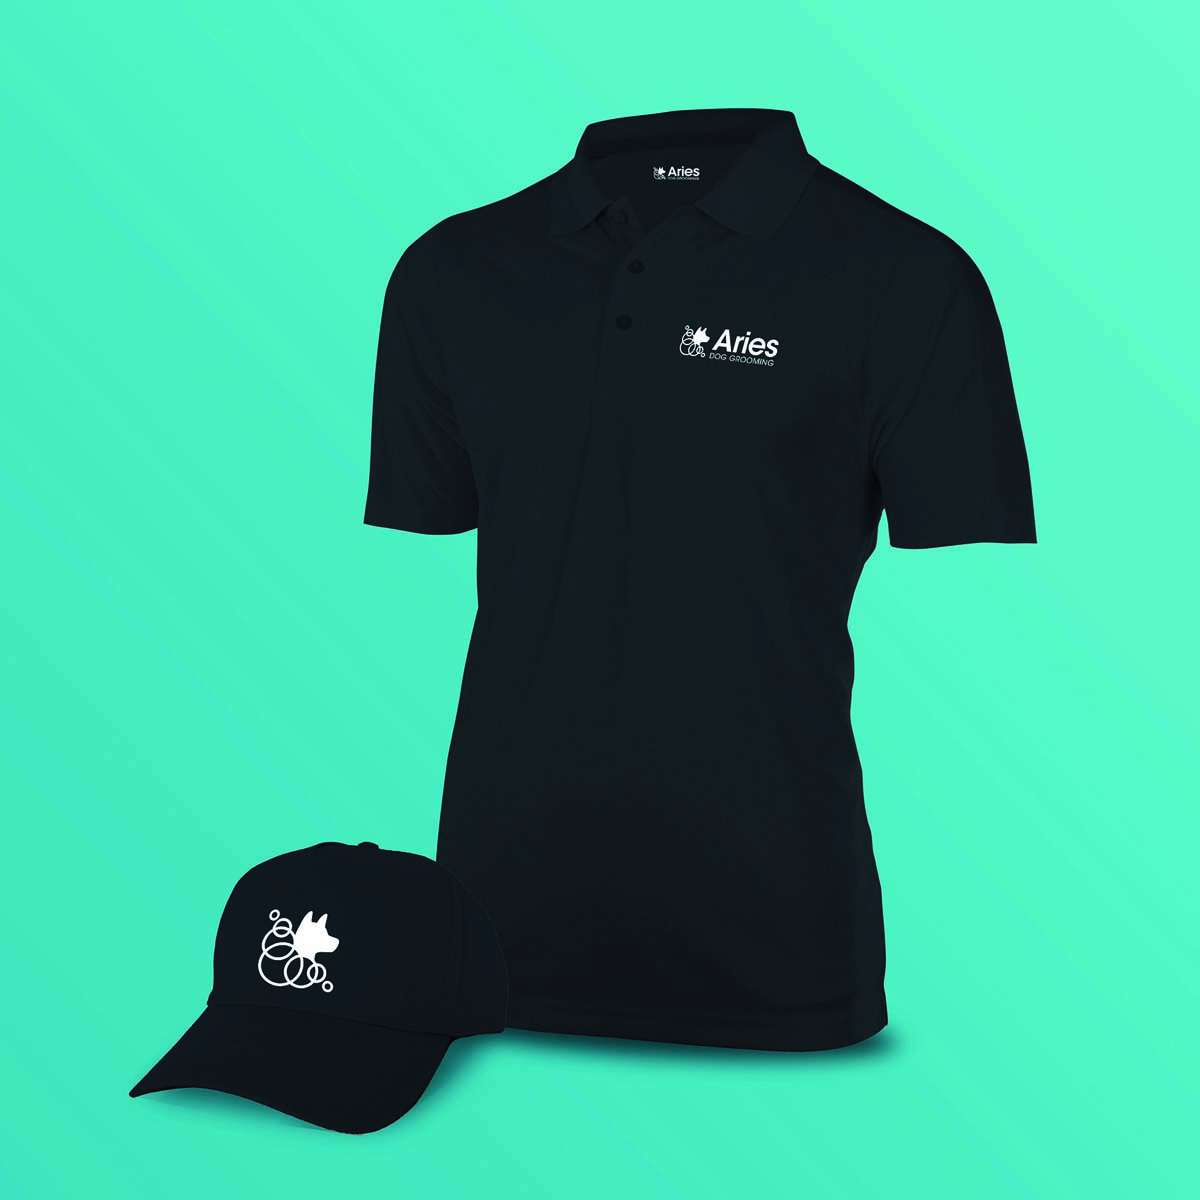
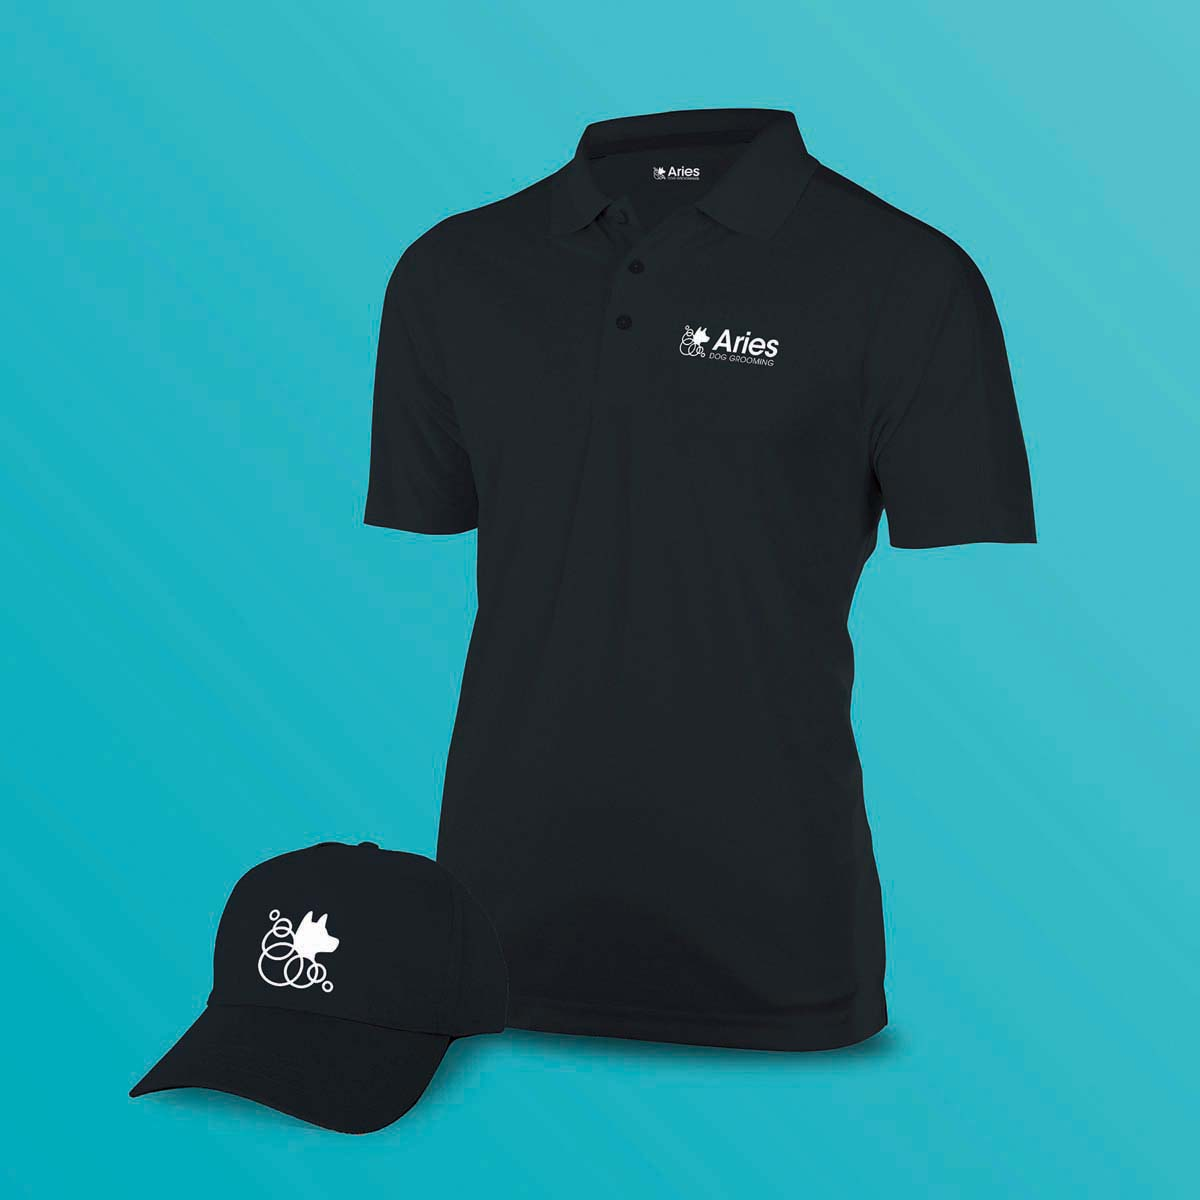
treehouse

diff --git a/case-study-treehouse2.html b/case-study-treehouse2.html
@@ -1,0 +1,45 @@
+---
+layout: default
+title: Case Study • Isometric Treehouse
+---
+
+<meta name="description" content="A logo and brand design created for Aries Dog Grooming.">
+
+<ul class="skip-links">
+    <li><a href="#main">Jump to main content</a></li>
+    <li><a href="#nav">Jump to navigation</a></li>
+  </ul>
+
+  <main role="main" id="main" itemref="data-author" itemscope itemtype="https://schema.org/WebSite" class="case-study">
+    <div class="banner push-2">
+      <img src="{{site.baseurl}}/images/aries-banner.jpg" alt="">
+    </div>
+    <div class="text-card grid gutter push">
+      <h1 class="unit xs-1 push-1-2">Isometric Treehouse</h1>
+      <p class=" unit xs-1 l-1-2 push">A process in all its stages was to be depicted in this project. Isometric illustrations tend to lean towards pixel art and hard lines, which can feel very static. I wanted to challenge myself by choosing organic forms that still adhered to the grid. </p>
+      <p class=" unit xs-1 l-1-2 push">The characters were sketched first in order to establish a graphic style. The treehouse was designed on a grid, with consideration given as to how the process of its construction could best be shown. The colour palette is meant to renforce the whimsical and lighthearted subject matter. </p>
+    </div>
+    <div class="grid push-2">
+      <div class="unit xs-1 m-1-2 l-1-2 ">
+        <div class="embed embed-2by3">
+          <img itemprop="image"class="embed-item img-flex" src="{{site.baseurl}}/images/treehouse.jpg" alt="isometric treehouse">
+        </div>
+      </div>
+      <div class="unit xs-1 m-1-2 l-1-2">
+        <div class="embed embed-2by3">
+          <img itemprop="image"class="embed-item img-flex" src="{{site.baseurl}}/images/treehouse-sketch.jpg" alt="treehouse sketch">
+        </div>
+      </div>
+      <div class="unit xs-1 m-1-2 l-1-2 ">
+        <div class="embed embed-1by1">
+          <img itemprop="image"class="embed-item img-flex" src="{{site.baseurl}}/images/treehouse-fox.jpg" alt="treehouse detail fox">
+        </div>
+      </div>
+      <div class="unit xs-1 m-1-2 l-1-2 ">
+        <div class="embed embed-1by1">
+          <img itemprop="image"class="embed-item img-flex" src="{{site.baseurl}}/images/treehouse-squirrel.jpg" alt="treehouse detail squirrel">
+        </div>
+      </div>
+    </div>
+    <aside itemprop="keywords">Branding, Design, Logo</aside>
+  </main>

diff --git a/case-study-aries2.html b/case-study-aries2.html
@@ -20,14 +20,19 @@ title: Case Study • Aries
       <p class=" unit xs-1 l-1-2 push">A branding guide was provided alongside the logo design. Photography, social media and a range of printed formats were all taken into consideration. </p>
     </div>
     <div class="grid push-2">
-      <div class="unit xs-1 m-1-2 l-1-2 ">
+      <div class="unit xs-1 m-1 l-1">
+        <div class="embed embed-4by1">
+          <img itemprop="image"class="embed-item img-flex" src="{{site.baseurl}}/images/aries-logo.jpg" alt="Aries logo">
+        </div>
+      </div>
+      <div class="unit xs-1 m-1-2 l-1-2">
         <div class="embed embed-1by1">
           <img itemprop="image"class="embed-item img-flex" src="{{site.baseurl}}/images/aries-sketch.jpg" alt="Aries logo sketch">
         </div>
       </div>
       <div class="unit xs-1 m-1-2 l-1-2 ">
         <div class="embed embed-1by1">
-          <img itemprop="image"class="embed-item img-flex" src="{{site.baseurl}}/images/aries-stationary.jpg" alt="Aries stationary design">
+          <img itemprop="image"class="embed-item img-flex" src="{{site.baseurl}}/images/aries-shirt.jpg" alt="Aries stationary design">
         </div>
       </div>
       <div class="unit xs-1 m-1-2 l-1-2 ">
